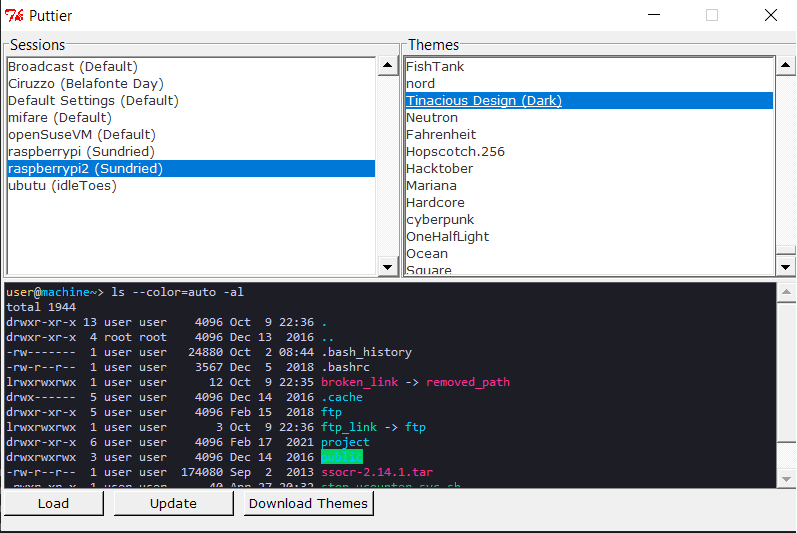
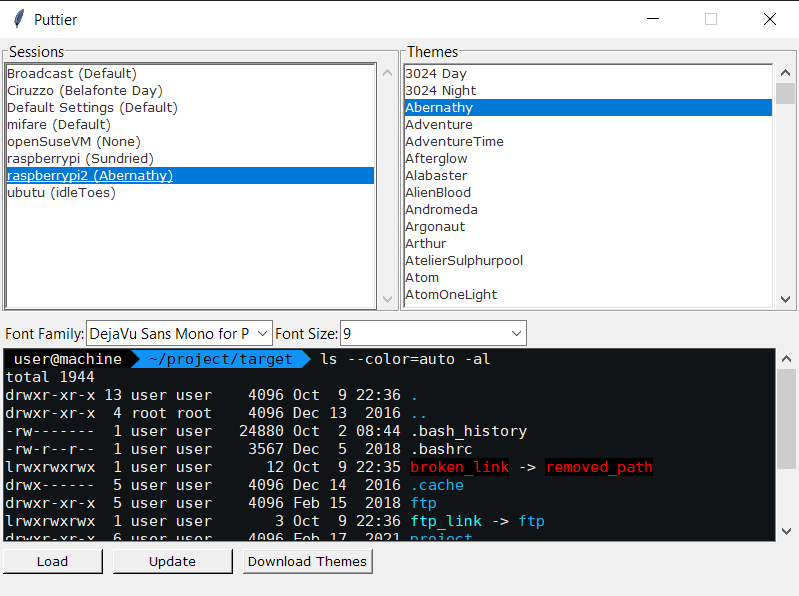
Updated code for python3 compatibility and updated screenshot

Changed region(s): [[0.0, 0.0, 1.0, 1.0], [0.9335, 0.0, 0.9937, 0.03]]

diff --git a/gui.py b/gui.py
@@ -84,8 +84,8 @@ class App:
         label = ttk.Label(pBottomFont, text="Font Size:")
         label.pack(side=tk.LEFT, fill=tk.BOTH, pady=0, padx=0)
         self.fontSizeCombo = ttk.Combobox(pBottomFont, height=20, state="readonly",
-                            values=range(4,28))
-        self.fontSizeCombo.current(6)
+                            values=list(range(4,28)))
+        self.fontSizeCombo.current(1)
         self.fontSizeCombo.pack(side=tk.LEFT, fill=tk.BOTH, pady=0, padx=0)
         self.fontSizeCombo.bind("<<ComboboxSelected>>", self.onSelectFontSize)
 
@@ -244,8 +244,9 @@ drwxrwxrwx  3 user user    4096 Dec 14  2016 public
             return
         if session_instance and session_instance.font and session_instance.font_size:
             self.fontCombo.current(self.font_families.index(session_instance.font))
-            if session_instance.font_size < 28 and session_instance.font > 4:
-                self.fontSizeCombo.current(session_instance.font_size - 4)
+            curr_font_size = int(session_instance.font_size)
+            if curr_font_size < 28 and curr_font_size > 4:
+                self.fontSizeCombo.current(str(curr_font_size - 4))
 
         session_hash = session_instance.theme.toHash()
         self.theme_listbox.selection_clear(0, 'end')

diff --git a/puttier.py b/puttier.py
@@ -2,6 +2,8 @@
 from collections import OrderedDict
 from themeloader import *
 from puttysessions import *
+from functools import cmp_to_key
+
 try:
     input = raw_input
 except NameError: pass
@@ -17,7 +19,7 @@ class Puttier:
 
     @staticmethod
     def loadSessions(themes_db = None):
-        putty_sessions = sorted(list(PuttyLoader.sessions()), cmp=PuttySession.compare)
+        putty_sessions = sorted(list(PuttyLoader.sessions()), key=cmp_to_key(PuttySession.compare))
         sessions_dict = OrderedDict()
         for index, s in enumerate(putty_sessions):
             known_theme = None

diff --git a/themeloader.py b/themeloader.py
@@ -4,9 +4,17 @@ import os
 # -*- coding: utf-8 -*-
 import glob
 from theme import *
-from StringIO import StringIO
+try:
+    from StringIO import StringIO ## for Python 2
+except ImportError:
+    from io import StringIO ## for Python 3
 from zipfile import ZipFile
-from urllib import urlopen
+
+try:
+    from urllib.request import urlopen ## for Python 3
+except ImportError:
+    from urllib import urlopen ## for Python 2
+
 import shutil
 
 
